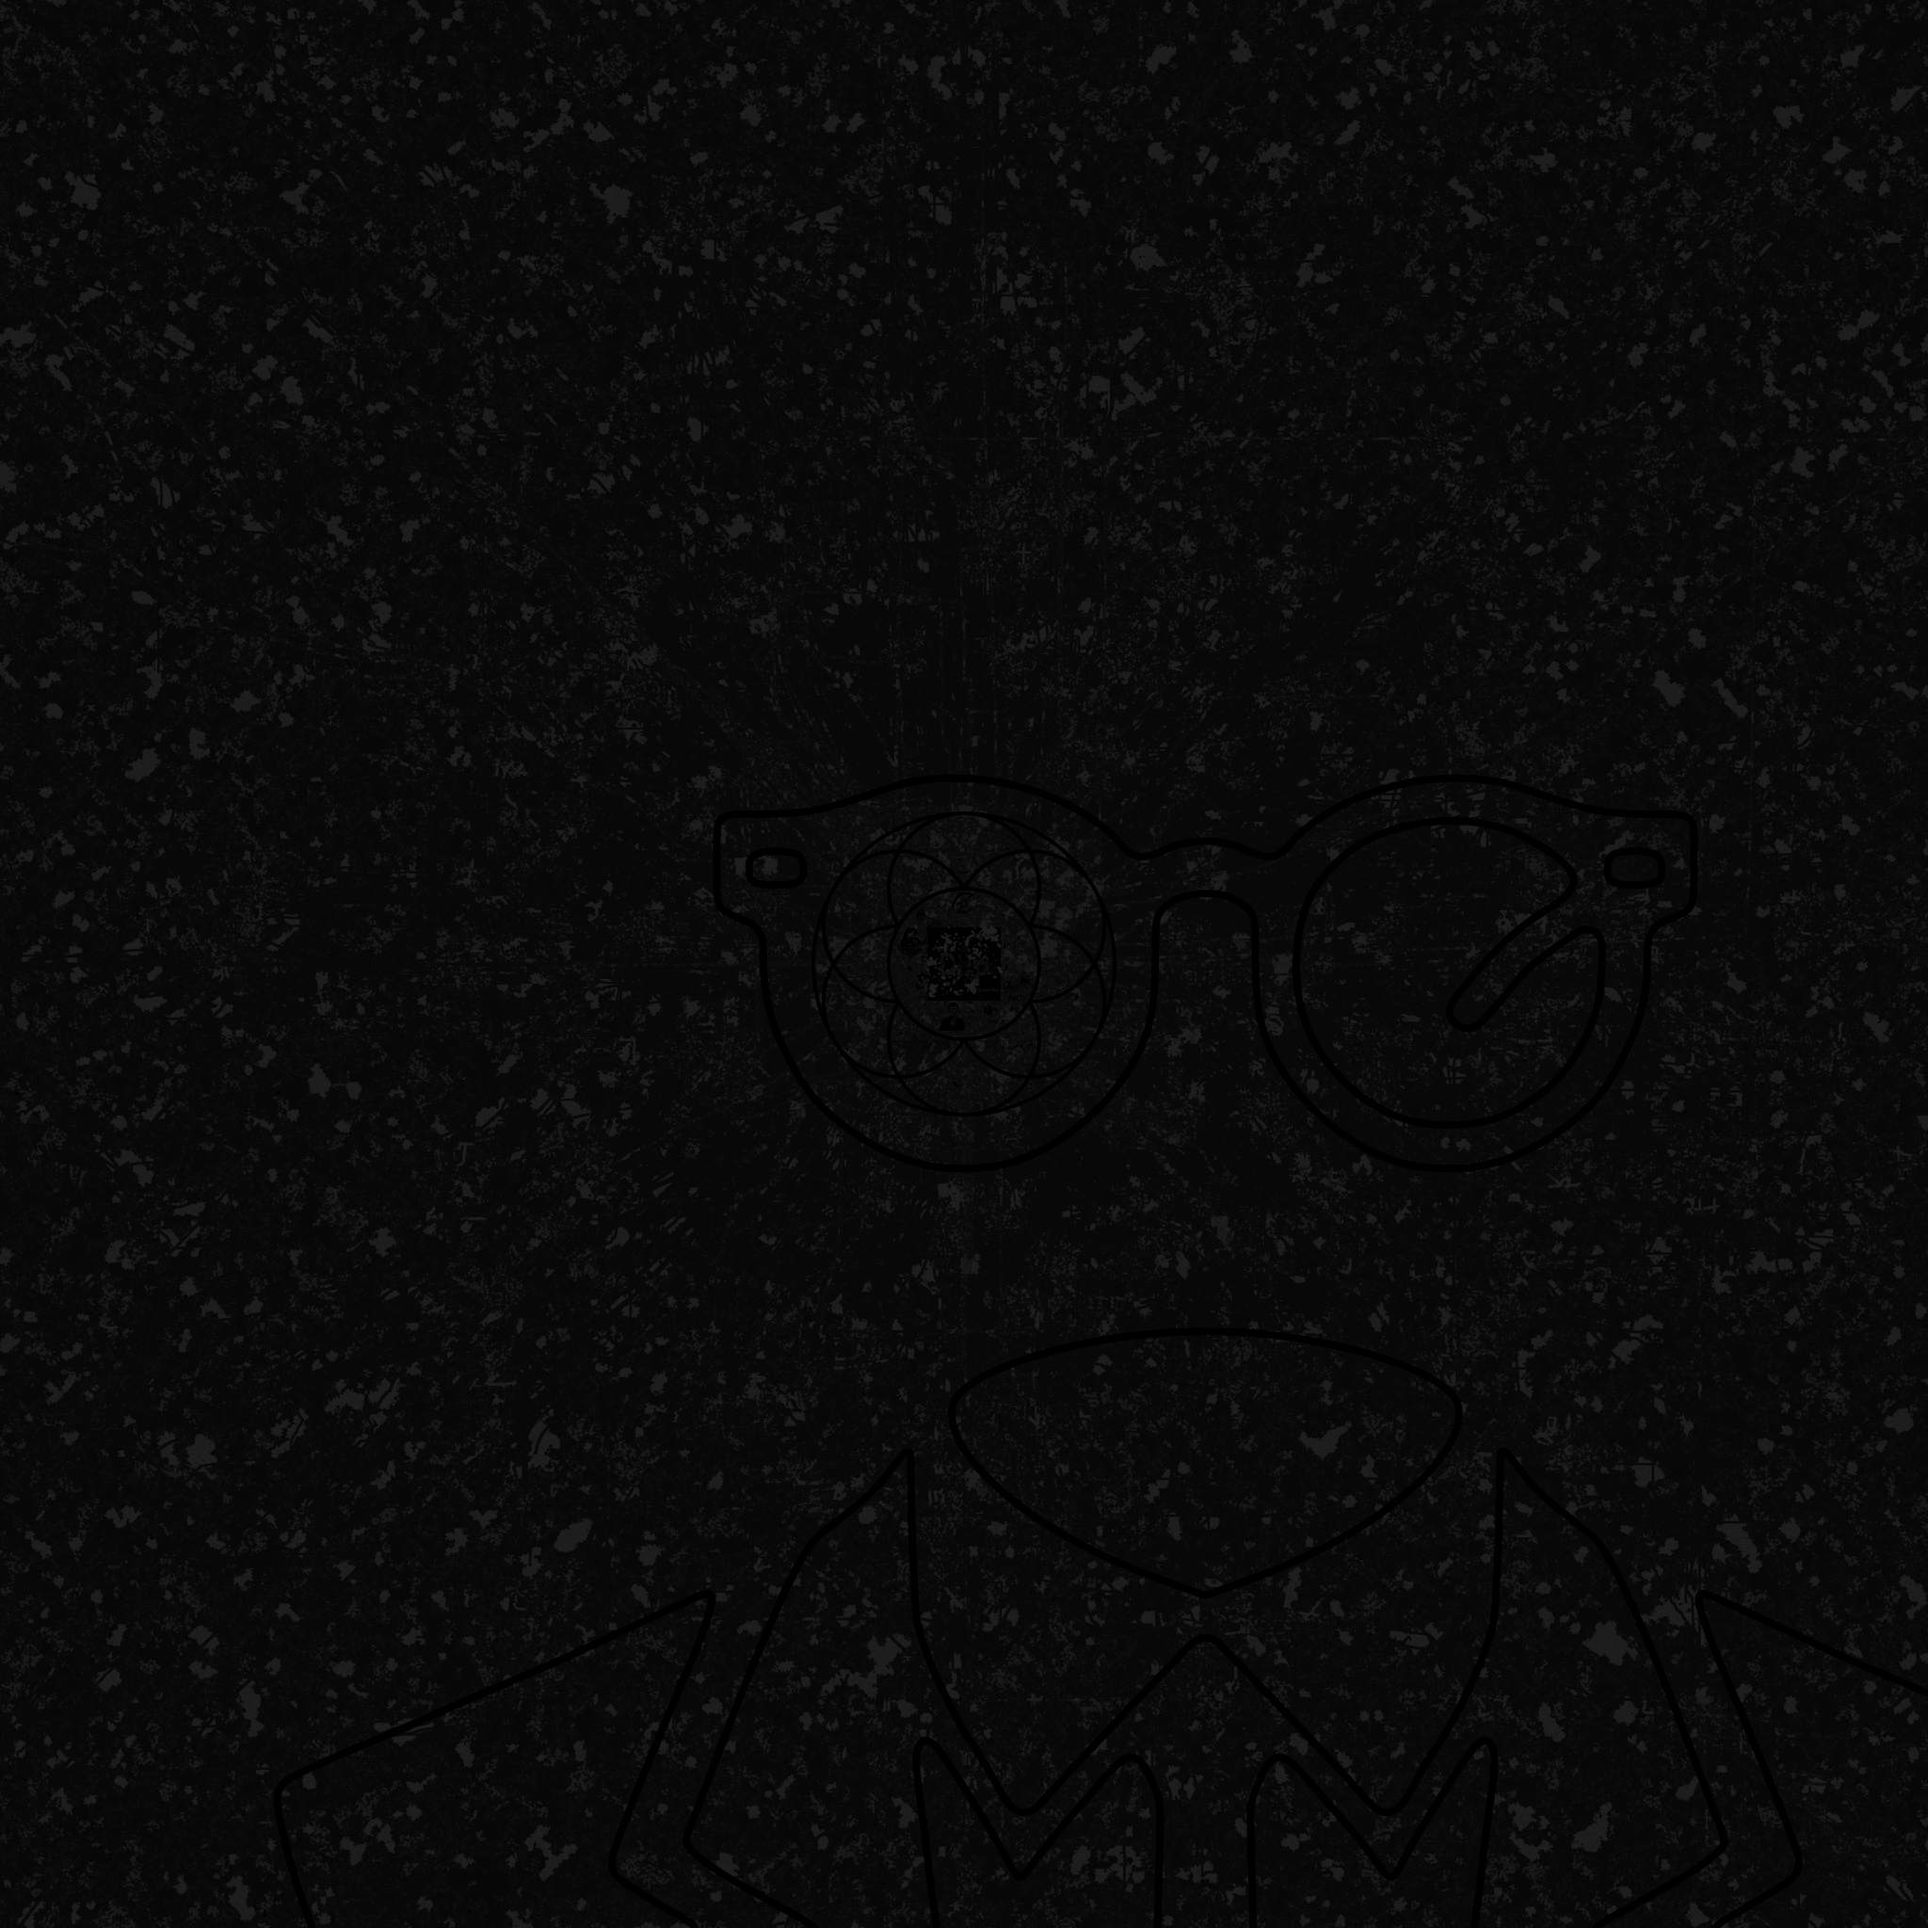
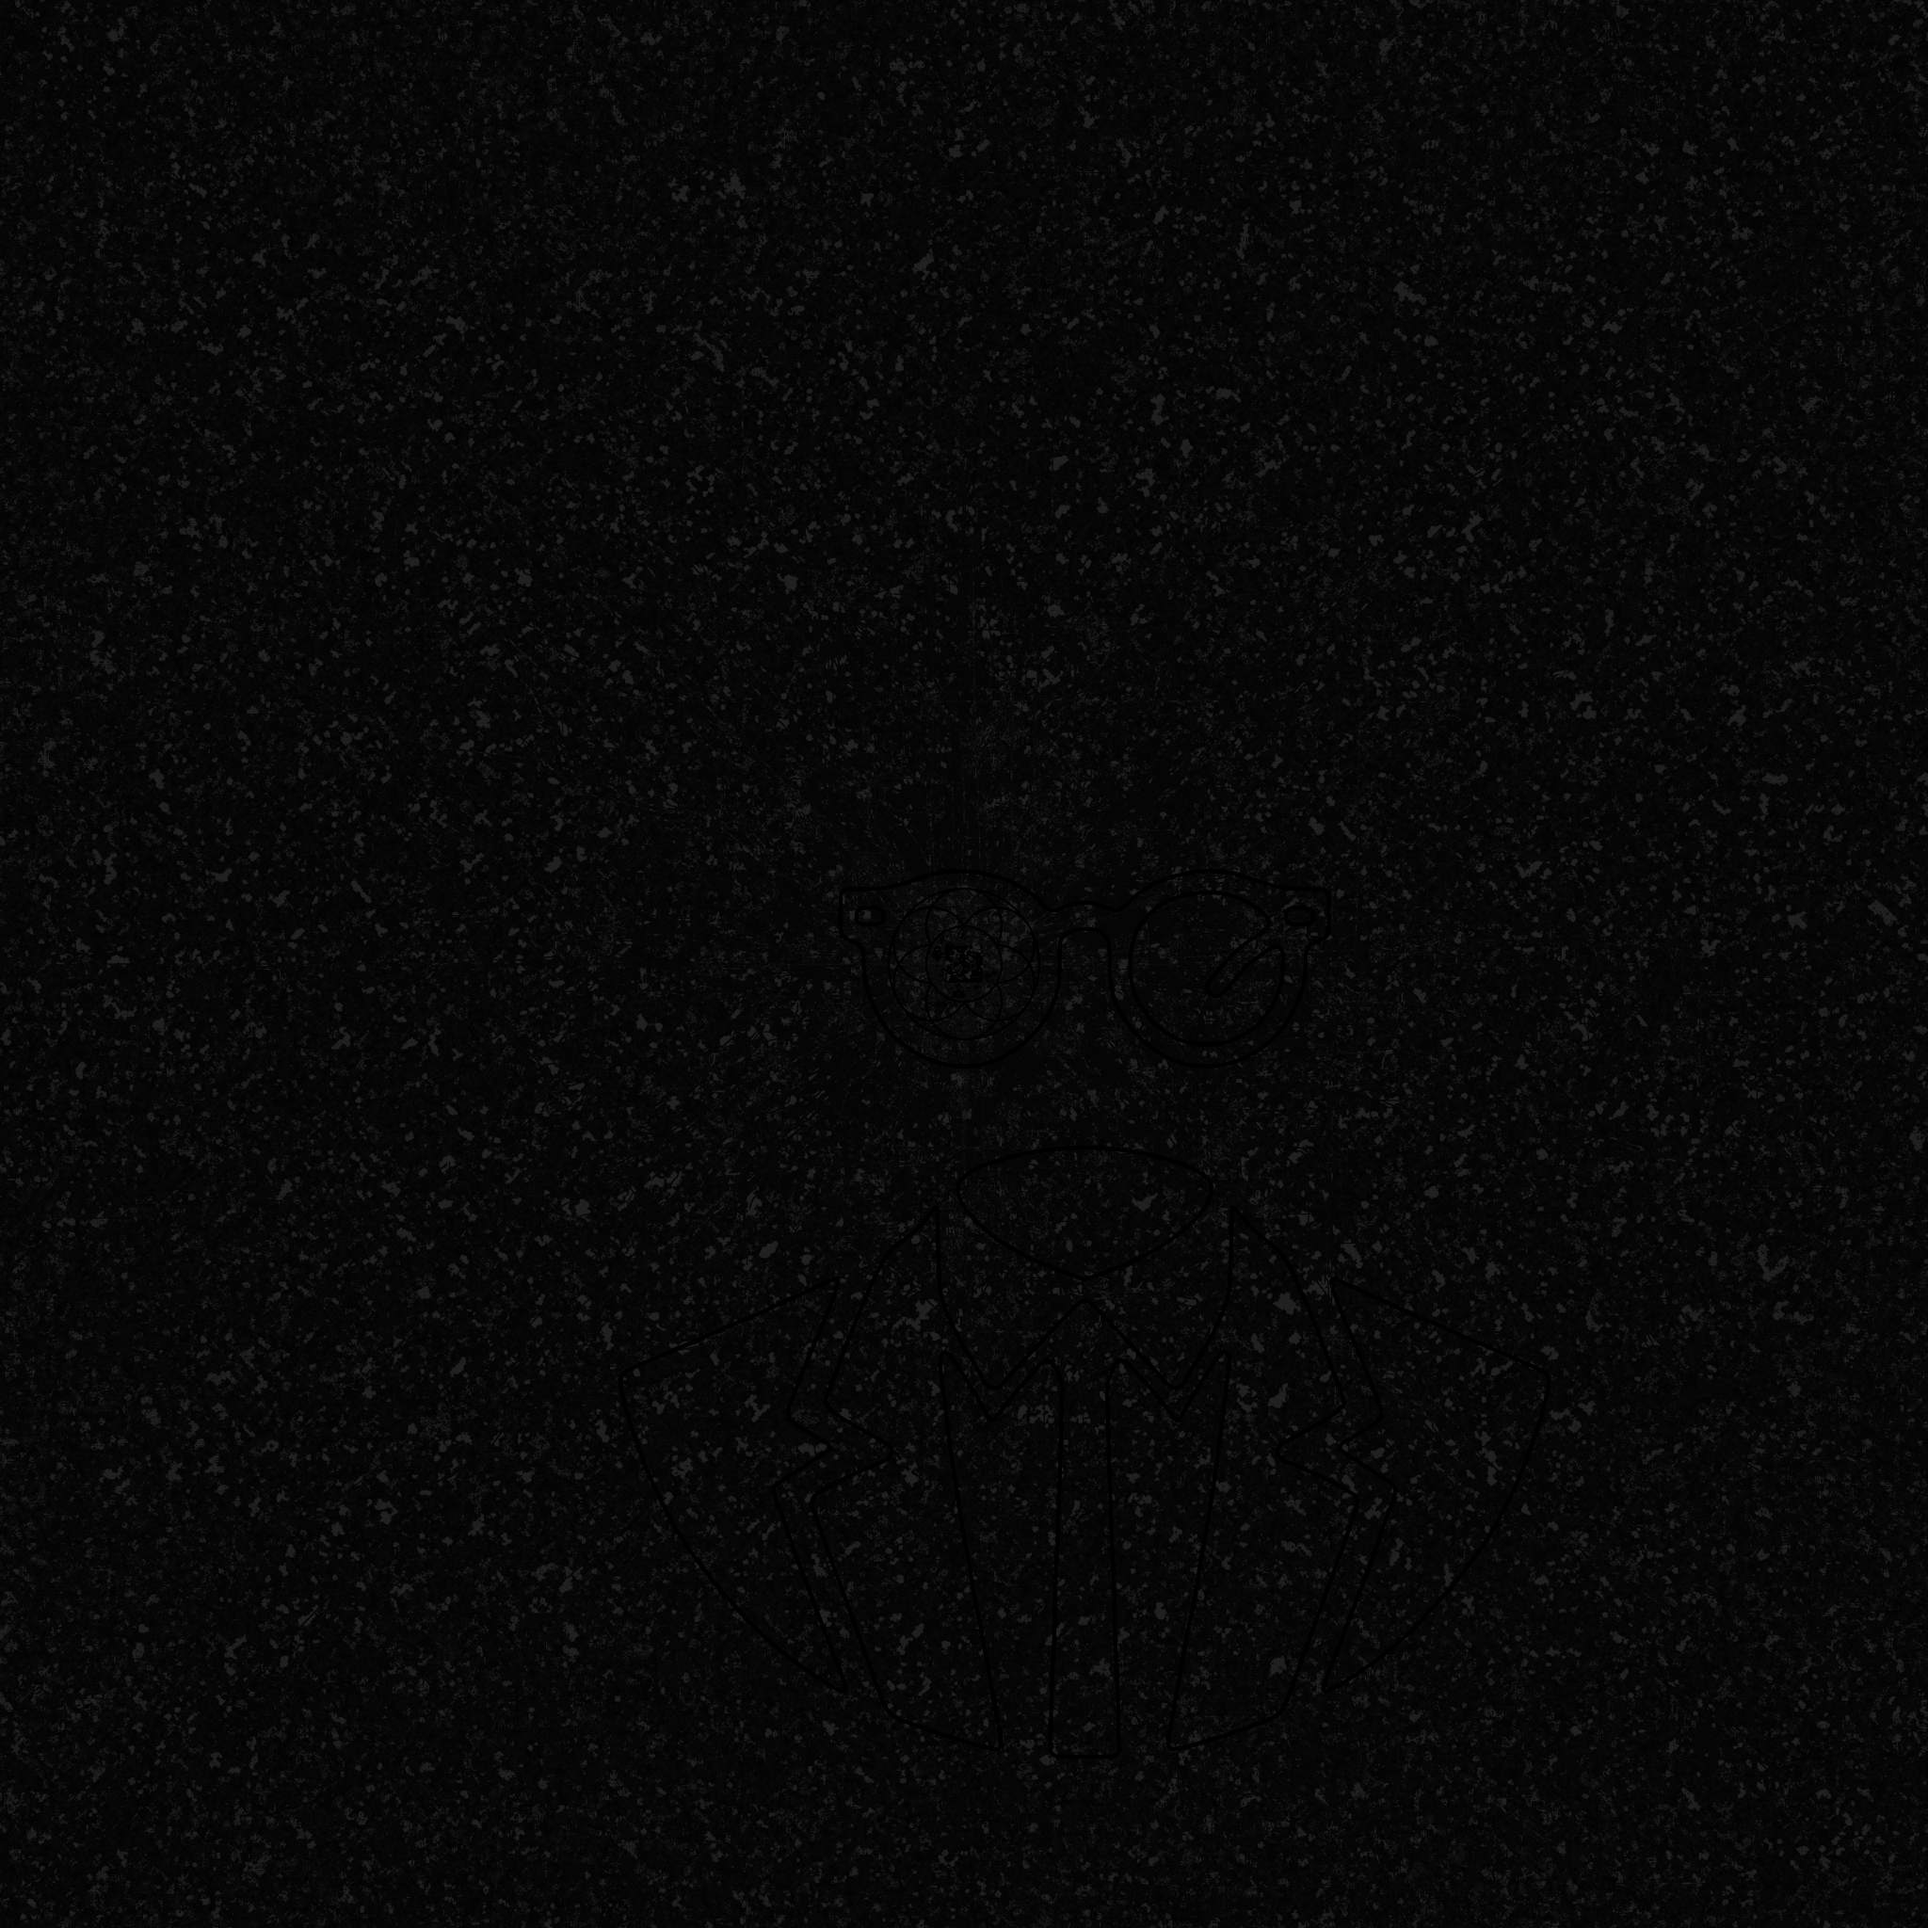
Background: ±262k of map with a wider clear zone, the whole figure visible

diff --git a/index.html b/index.html
@@ -38,9 +38,9 @@
   .bar .logo { width:22px; height:22px; display:block; image-rendering:pixelated }
   /* the map drifts very slowly behind the page; the vignette on top of it stays put */
   body::before { content:""; position:fixed; inset:-6%; z-index:0; pointer-events:none; background:#000 url(map.jpg) center / cover no-repeat; animation:drift 140s ease-in-out infinite alternate; will-change:transform }
-  body::after { content:""; position:fixed; inset:0; z-index:0; pointer-events:none; background:radial-gradient(circle at 50% 42%, rgba(0,0,0,0) 0, rgba(0,0,0,.45) 16vmax, rgba(0,0,0,.92) 30vmax, #000 40vmax) }
+  body::after { content:""; position:fixed; inset:0; z-index:0; pointer-events:none; background:radial-gradient(circle at 50% 44%, rgba(0,0,0,0) 0, rgba(0,0,0,.15) 20vmax, rgba(0,0,0,.7) 34vmax, #000 48vmax) }
   @keyframes drift { from { transform:translate(-2%, -1.5%) scale(1.02) } to { transform:translate(2%, 1.5%) scale(1.06) } }
-  @media (max-width:700px){ body::before { background-image:url(map-small.jpg) } body::after { background:radial-gradient(circle at 50% 38%, rgba(0,0,0,0) 0, rgba(0,0,0,.5) 22vmax, #000 44vmax) } }
+  @media (max-width:700px){ body::before { background-image:url(map-small.jpg) } body::after { background:radial-gradient(circle at 50% 40%, rgba(0,0,0,0) 0, rgba(0,0,0,.3) 26vmax, #000 50vmax) } }
   @media (prefers-reduced-motion: reduce){ body::before { animation:none } }
   body.mapmode main, body.mapmode::before, body.mapmode::after { display:none }
   #fullmap { position:fixed; inset:0; z-index:4; background:#000 }
